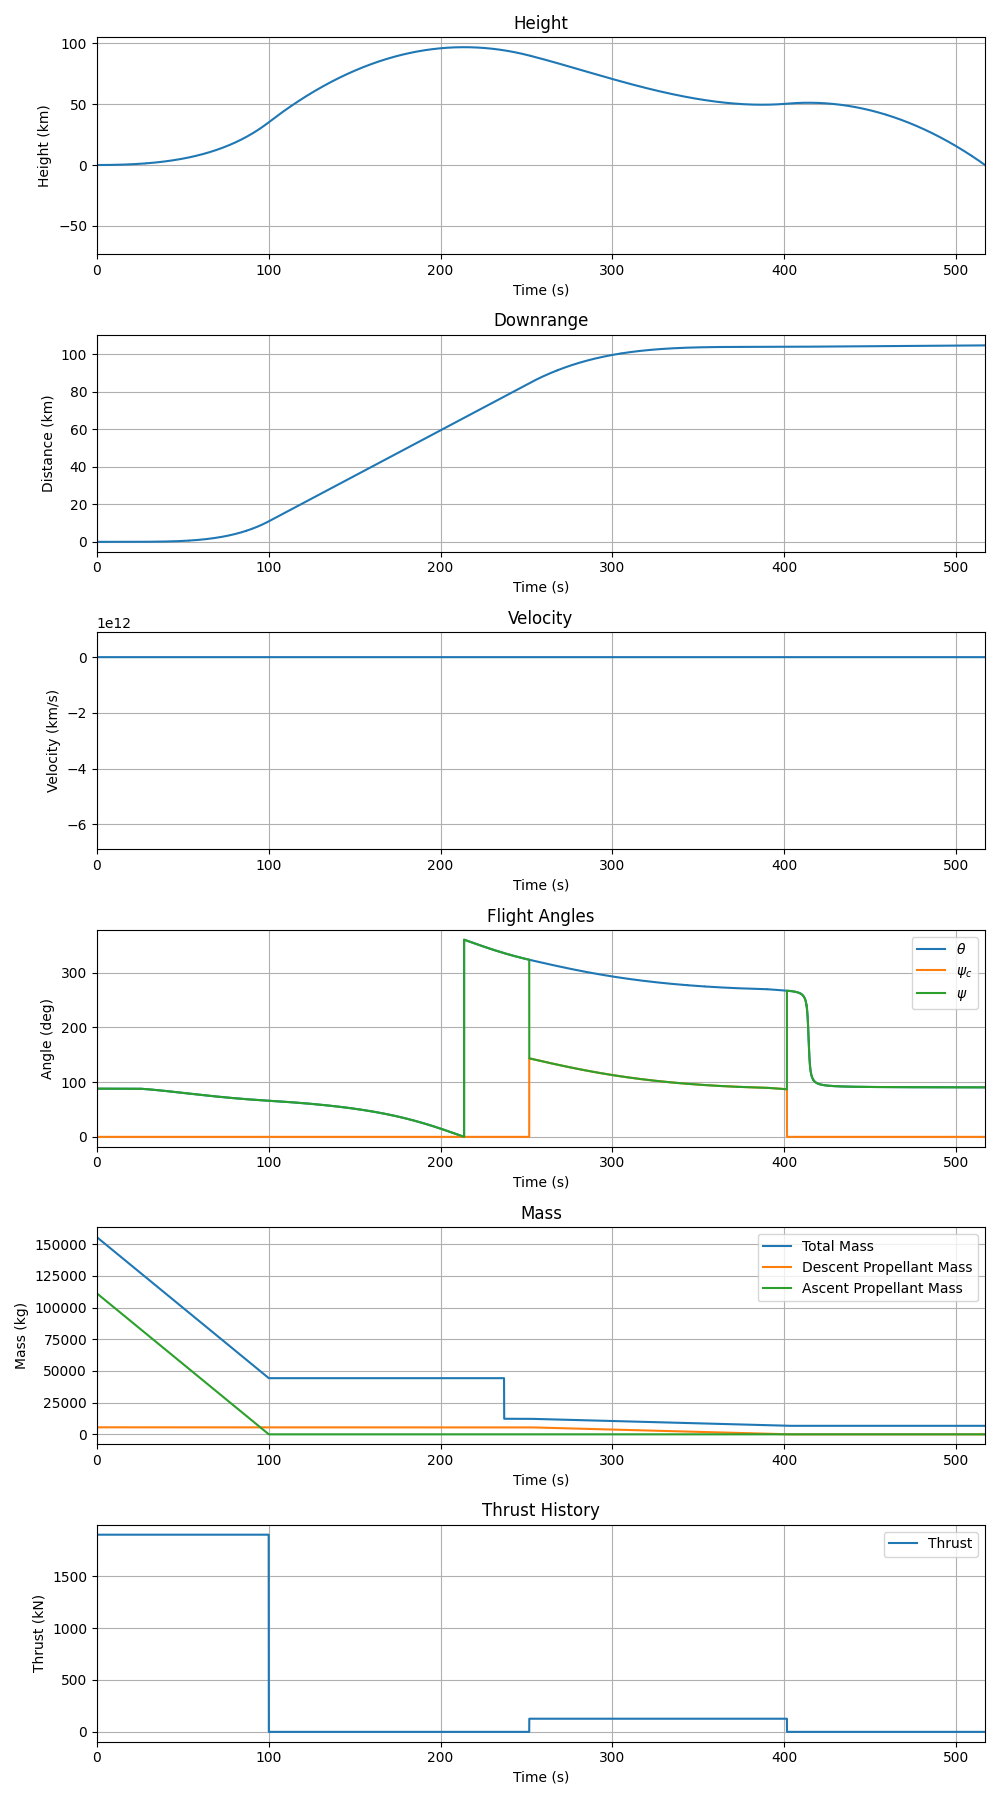
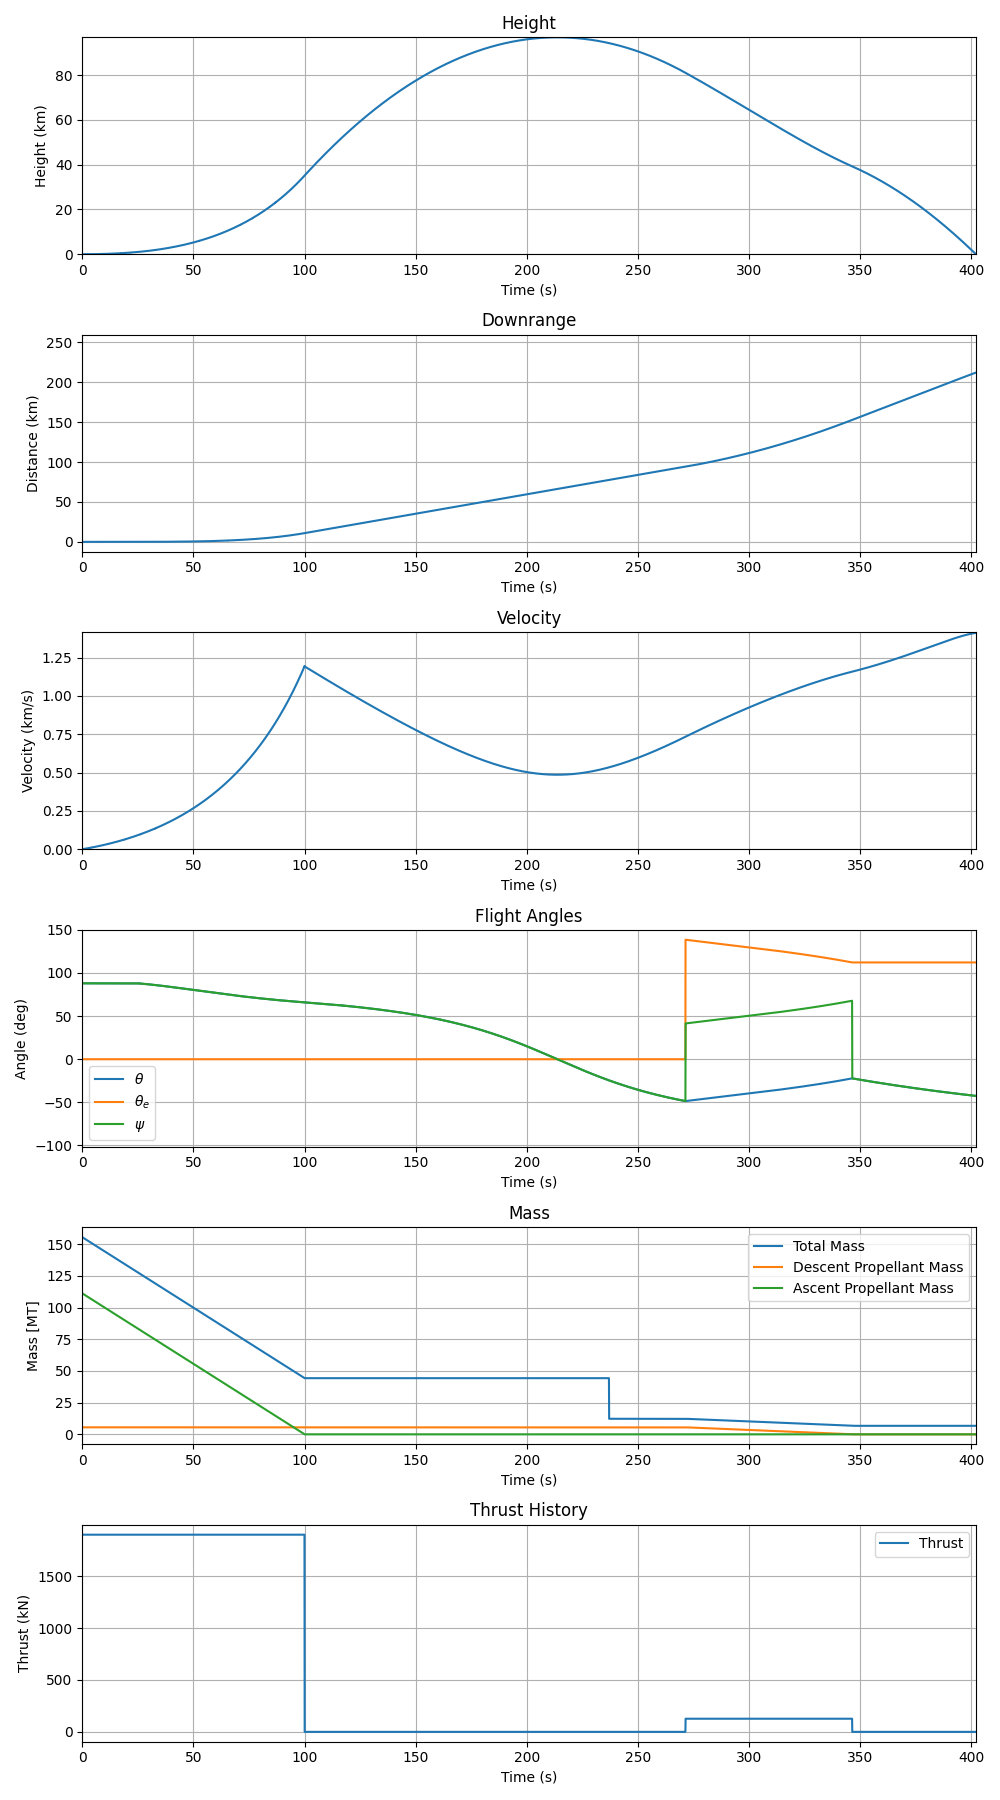
Making it so angles relative to horizon and not norming things

diff --git a/src/trajectory.py b/src/trajectory.py
@@ -5,7 +5,6 @@ import matplotlib.pyplot as plt
 
 # Local imports
 from controller import Controller
-from utils import normalize_radians
 
 
 def determine_density(h):
@@ -41,9 +40,6 @@ def ode_equations(t,y):
     # Determine dt
     util_values['dt'] = t - util_values['prior_t']
 
-    # Make sure theta is normalized
-    theta = normalize_radians(theta)
-
     # Ascent: before gravity turn
     if h <= h_turn and t<=tb_ascent:
 
@@ -51,7 +47,6 @@ def ode_equations(t,y):
         util_values["phase"] = "Ascent pre grav turn"
 
         # Determine TVC correction
-        util_values['psi_correction'] = 0
         util_values['psi'] = theta
 
         # Thrust and mass
@@ -72,7 +67,6 @@ def ode_equations(t,y):
         util_values["phase"] = "Ascent"
      
         # Determine TVC correction
-        util_values['psi_correction'] = 0
         util_values['psi'] = theta
 
         # Thrust and mass
@@ -93,7 +87,6 @@ def ode_equations(t,y):
         util_values["phase"] = "Coast"
 
         # Determine TVC correction
-        util_values['psi_correction'] = 0
         util_values['psi'] = theta
 
         # Thrust and mass
@@ -107,14 +100,13 @@ def ode_equations(t,y):
         x_dot = v*np.cos(theta)
 
     # Descent burn
-    elif util_values['mp_descent'] > 0 and h < 90e3:
+    elif util_values['mp_descent'] > 0 and h < 81e3:
 
         # Phase
         util_values["phase"] = "Descent"
         
         # Determine TVC correction
-        util_values['psi_correction'] = pidController.get_psi_correction(theta, util_values['psi_correction'], util_values['dt'])
-        util_values['psi'] = util_values['psi_correction']
+        util_values['psi'], util_values['theta_error'] =pidController.get_psi_correction(theta, util_values['psi'], util_values['theta_error'], util_values['dt'])
 
         # Set times
         util_values['descent_t'] = util_values['descent_t'] + util_values['dt']
@@ -137,7 +129,6 @@ def ode_equations(t,y):
         util_values["phase"] = "Post Descent"
 
         # Determine TVC correction
-        util_values['psi_correction'] = 0
         util_values['psi'] = theta
 
 
@@ -158,7 +149,7 @@ def ode_equations(t,y):
     save_values['mp_ascent'].append(util_values['mp_ascent'])
     save_values['mp_descent'].append(util_values['mp_descent'])
     save_values['psi'].append(util_values['psi'])
-    save_values['psi_correction'].append(util_values['psi_correction'])
+    save_values['theta_error'].append(util_values['theta_error'])
     save_values['theta'].append(theta)
     save_values['v'].append(v)
     save_values['h'].append(h)
@@ -168,7 +159,7 @@ def ode_equations(t,y):
     util_values['prior_t'] = t
     util_values['prior_h'] = h
 
-    #print(t, util_values["phase"], theta*180/np.pi,util_values['psi_correction']*180/np.pi, util_values['mp_descent'])
+    #print(t, util_values["phase"], theta*180/np.pi,util_values['theta_error']*180/np.pi, util_values['mp_descent'])
 
     # Return
     return [v_dot, theta_dot, h_dot, x_dot]
@@ -198,7 +189,7 @@ if __name__ == '__main__':
     h_turn = 1000
 
     # Descent Burn
-    mdot_descent = mdot_ascent/30
+    mdot_descent = mdot_ascent/15
     thrust_descent = thrust_ascent/15
     
     # Initial Conditions
@@ -214,8 +205,8 @@ if __name__ == '__main__':
     Kp = 0.6
     Ki = 0.1
     Kd = 0.2
-    desired_flight_path_angle = np.radians(90)
-    bounds = np.radians(180)
+    desired_flight_path_angle = 90
+    bounds = 90
     pidController = Controller(Kp, Ki, Kd, desired_flight_path_angle, bounds)
 
     #------------------------------------------------
@@ -224,7 +215,7 @@ if __name__ == '__main__':
     # Dicts
     util_values = {
                     'psi': theta_init,
-                    'psi_correction': 0,
+                    'theta_error': 0,
                     'dt': 0,
                     'prior_t': 0,
                     'prior_h': 0,
@@ -237,7 +228,7 @@ if __name__ == '__main__':
     save_values =  { 
                     't': [],
                     'psi': [],
-                    'psi_correction': [],
+                    'theta_error': [],
                     'theta': [],
                     'v': [],
                     'h': [],
@@ -268,15 +259,18 @@ if __name__ == '__main__':
     #------------------------------------------------
     # Convert to degrees
     save_values['psi'] = np.degrees(save_values['psi'])
-    save_values['psi_correction'] = np.degrees(save_values['psi_correction'])
+    save_values['theta_error'] = np.degrees(save_values['theta_error'])
     save_values['theta'] = np.degrees(save_values['theta'])
 
-    # Convert to km and km/s
+    # Convert to km/s, km, and Metric Tons, and kN
     for i in range(0,len(save_values['t'])):
-        save_values['x'][i] = save_values['x'][i]/1e3
-        save_values['h'][i] = save_values['h'][i]/1e3
-        save_values['v'][i] = save_values['v'][i]/1e3
-        save_values['F'][i] = save_values['F'][i]/1e3
+        save_values['x'][i] = save_values['x'][i]/1e3   # [km]
+        save_values['h'][i] = save_values['h'][i]/1e3   # [km]
+        save_values['v'][i] = save_values['v'][i]/1e3   # [km/s]
+        save_values['F'][i] = save_values['F'][i]/1e3   # [kN]
+        save_values['m'][i] = save_values['m'][i]/1e3   # [MT]
+        save_values['mp_descent'][i] = save_values['mp_descent'][i]/1e3   # [MT]
+        save_values['mp_ascent'][i] = save_values['mp_ascent'][i]/1e3   # [MT]
 
     # Post processing
     h_array = np.array(save_values['h'])
@@ -296,6 +290,7 @@ if __name__ == '__main__':
     axs[0].set_title('Height')
     axs[0].grid(True)
     axs[0].set_xlim(0, save_values['t'][last_index_positive])
+    axs[0].set_ylim(0, max(save_values['h']))
 
     # Plot Downrange
     axs[1].plot(save_values['t'], save_values['x'])
@@ -312,10 +307,11 @@ if __name__ == '__main__':
     axs[2].set_title('Velocity')
     axs[2].grid(True)
     axs[2].set_xlim(0, save_values['t'][last_index_positive])
+    axs[2].set_ylim(0, max(save_values['v']))
 
     # Plot Angles
     axs[3].plot(save_values['t'], save_values['theta'], label="$\\theta$")
-    axs[3].plot(save_values['t'], save_values['psi_correction'], label="$\\psi_c$")
+    axs[3].plot(save_values['t'], save_values['theta_error'], label="$\\theta_e$")
     axs[3].plot(save_values['t'], save_values['psi'], label="$\\psi$")
     axs[3].set_xlabel('Time (s)')
     axs[3].set_ylabel('Angle (deg)')
@@ -329,7 +325,7 @@ if __name__ == '__main__':
     axs[4].plot(save_values['t'], save_values['mp_descent'], label="Descent Propellant Mass")
     axs[4].plot(save_values['t'], save_values['mp_ascent'], label="Ascent Propellant Mass")
     axs[4].set_xlabel('Time (s)')
-    axs[4].set_ylabel('Mass (kg)')
+    axs[4].set_ylabel('Mass [MT]')
     axs[4].set_title('Mass')
     axs[4].grid(True)
     axs[4].legend()

diff --git a/src/controller.py b/src/controller.py
@@ -1,24 +1,36 @@
 # Pkg imports
-import matplotlib.pyplot as plt
-
-# Local imports
-from utils import normalize_radians
+import numpy as np
 
 class Controller:
     def __init__(self, Kp, Ki, Kd, setpoint, bounds):
-        self.Kp = Kp
-        self.Ki = Ki
-        self.Kd = Kd
-        self.setpoint = setpoint
-        self.bounds = bounds
-        self.prev_error = 0
-        self.integral = 0
+        self.Kp = Kp                    # [dimless]
+        self.Ki = Ki                    # [dimless]
+        self.Kd = Kd                    # [dimless]
+        self.setpoint = setpoint        # [deg]
+        self.bounds = bounds            # [deg]
+        self.prev_error = 0             # [rad]
+        self.integral = 0               # [rad]
 
-    def get_psi_correction(self, theta, psi_correction_prior, dt):
+    def get_psi_correction(self, theta, psi_correction_prior, error_prior, dt):
 
-        # Pick ideal thrust vector angle
+        # Units of inputs are:
+        # theta                 [rads]
+        # psi_correction_prior  [rads]
+        # error_prior           [rads]
+
+        # Swap theta to degrees (-180 to 180)
+        theta = np.degrees(theta)               # [deg]
+        if theta > 180:
+            theta = theta - 360
+
+        # Swap psi and error to degrees
+        psi_correction_prior = np.degrees(psi_correction_prior)
+        error_prior = np.degrees(error_prior)
+
+        # Pick ideal thrust vector angle (in degrees)
         if dt <= 0:
             psi_correction = psi_correction_prior
+            error = error_prior
         else:
             error = self.setpoint - theta
             self.integral = self.integral + (error * dt)
@@ -26,13 +38,13 @@ class Controller:
             psi_correction = (self.Kp * error + self.Ki * self.integral + self.Kd * derivative) 
             self.prev_error = error
 
-        # # Bound the angle to something realistic
-        lower_bound = theta - self.bounds
-        upper_bound = theta  + self.bounds
-        if psi_correction > upper_bound:
-            psi_correction = upper_bound
-        elif psi_correction < lower_bound:
-            psi_correction = lower_bound
+            # Bound the angle to something realistic (this is all in degrees)
+            lower_bound = theta - self.bounds
+            upper_bound = theta  + self.bounds
+            if psi_correction > upper_bound:
+                psi_correction = upper_bound
+            elif psi_correction < lower_bound:
+                psi_correction = lower_bound
 
-        # Return
-        return normalize_radians(psi_correction)
+        # Return (Swap error and psi_correction back to rads)
+        return np.radians(psi_correction), np.radians(error)
